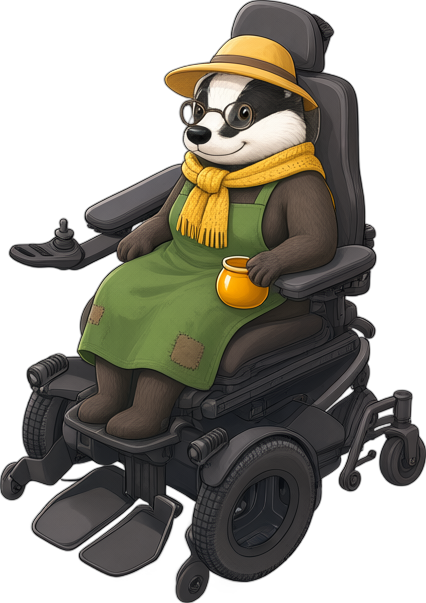
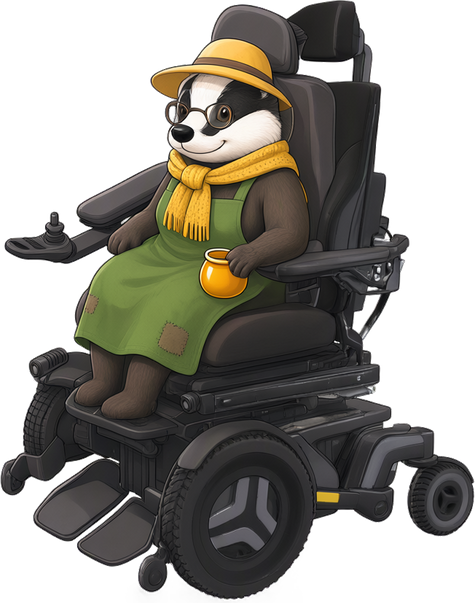
Портреты 9 клиентов в новых колясках: Мора, Зикс, Матильда, Голем, Сайра, Леший, Горыныч, Агата (с внуком и одна)

diff --git a/art_tests/portrait_install.py b/art_tests/portrait_install.py
@@ -1,0 +1,38 @@
+"""Готовый вариант портрета (scratchpad/poses/local/reseat_<ключ>_s<seed>_9_0.png) -> assets/<портрет>.png:
+вырезка фона BiRefNet (ComfyUI), alpha_repair, обрезка по объекту, высота — как у прежнего портрета (старый —
+art_tests/retired/). python art_tests/portrait_install.py <ключ>=<seed> […]"""
+import os, shutil, subprocess, sys
+from PIL import Image
+
+HERE = os.path.dirname(os.path.abspath(__file__))
+ROOT = os.path.normpath(os.path.join(HERE, ".."))
+SP = r"C:\Users\wario\AppData\Local\Temp\claude\D--wheels-and-bones\d845888a-7a45-42b9-a337-635687a142cf\scratchpad"
+sys.path.insert(0, HERE)
+import importlib.util
+spec = importlib.util.spec_from_file_location("pr", os.path.join(HERE, "portrait_reseat.py"))
+src = open(os.path.join(HERE, "portrait_reseat.py"), encoding="utf-8").read()
+JOBS = {}
+exec(src[src.index("JOBS = {"):src.index("\n}\n") + 3])                 # только словарь, без запуска генерации
+for arg in sys.argv[1:]:
+    key, seed = arg.split("=")
+    portrait = JOBS[key][1]
+    gen = os.path.join(SP, "poses", "local", f"reseat_{key}_s{seed}_9_0.png")
+    name = f"reseat_{key}"
+    subprocess.run([sys.executable, os.path.join(SP, "cut_new.py"), f"{name}={gen}"], check=True, cwd=SP,
+                   stdout=subprocess.DEVNULL)
+    cut = os.path.join(ROOT, "art_tests", "new_v1", "cut", name + ".png")
+    rep = os.path.join(SP, "poses", "local", name + "_rep.png")
+    subprocess.run([sys.executable, os.path.join(HERE, "alpha_repair.py"), gen, cut, rep], check=True,
+                   stdout=subprocess.DEVNULL)
+    dst = os.path.join(ROOT, "assets", portrait)
+    old = os.path.join(HERE, "retired", portrait)
+    os.makedirs(os.path.dirname(old), exist_ok=True)
+    if not os.path.exists(old):
+        shutil.copy(dst, old)
+    H = Image.open(old).height
+    im = Image.open(rep).convert("RGBA")
+    im = im.crop(im.getchannel("A").point(lambda a: 255 if a > 8 else 0).getbbox())
+    k = H / im.height
+    im = im.resize((round(im.width * k), H), Image.LANCZOS)
+    im.save(dst, optimize=True)
+    print(portrait, im.size)

diff --git a/AGENTS.md b/AGENTS.md
@@ -303,6 +303,14 @@ python i18n_work/build_lang.py       # перевод полон
 ## Журнал изменений
 Формат: `ГГГГ-ММ-ДД — агент/модель — что сделано (файлы)`. Новые записи — **сверху**.
 
+- 2026-10-22 — Claude (Opus 5.5) — **портреты клиентов в новых колясках** (Мора, Зикс, Матильда, Голем, Сайра, Леший,
+  Горыныч, Агата с внуком, Агата в Кабинете посадки): `art_tests/portrait_chair.py <chair> <yaw>` — рендер новой
+  коляски (оригинал Meshy в Blender) в ракурсе портрета; `portrait_reseat.py <ключ> [seeds]` — Qwen 2.1 edit: персонаж
+  из старого портрета + коляска из рендера (JOBS — описания колясок и рук); `portrait_install.py <ключ>=<seed>` —
+  BiRefNet + alpha_repair, высота как у старого, старые — art_tests/retired/. Выбраны: sorceress 22, goblin 33,
+  badger 22, golem 33, lizard 11, leshy 22, gorynych 22, owl_grandson 33, owl 22. Лист «было/стало» —
+  art_tests/portraits_before_after.png. (assets/client_*.png, art_tests/portrait_*.py)
+
 - 2026-10-22 — Claude (Opus 5.5) — **X8 (Леший) — модель Meshy** (`meshy_models/magic_mobility_x8.glb`, ключ `x8`, height=1300):
   кадры с оригинала, корпус оранжевый → красный (`recolor` 28→4; пятнистый — Meshy смешал красное и жёлтое фото,
   владелец решил оставить). Модель фольклорной коляски — art_tests/tripo/models/chair_leshy_ai*.json (в игру — кадры),
